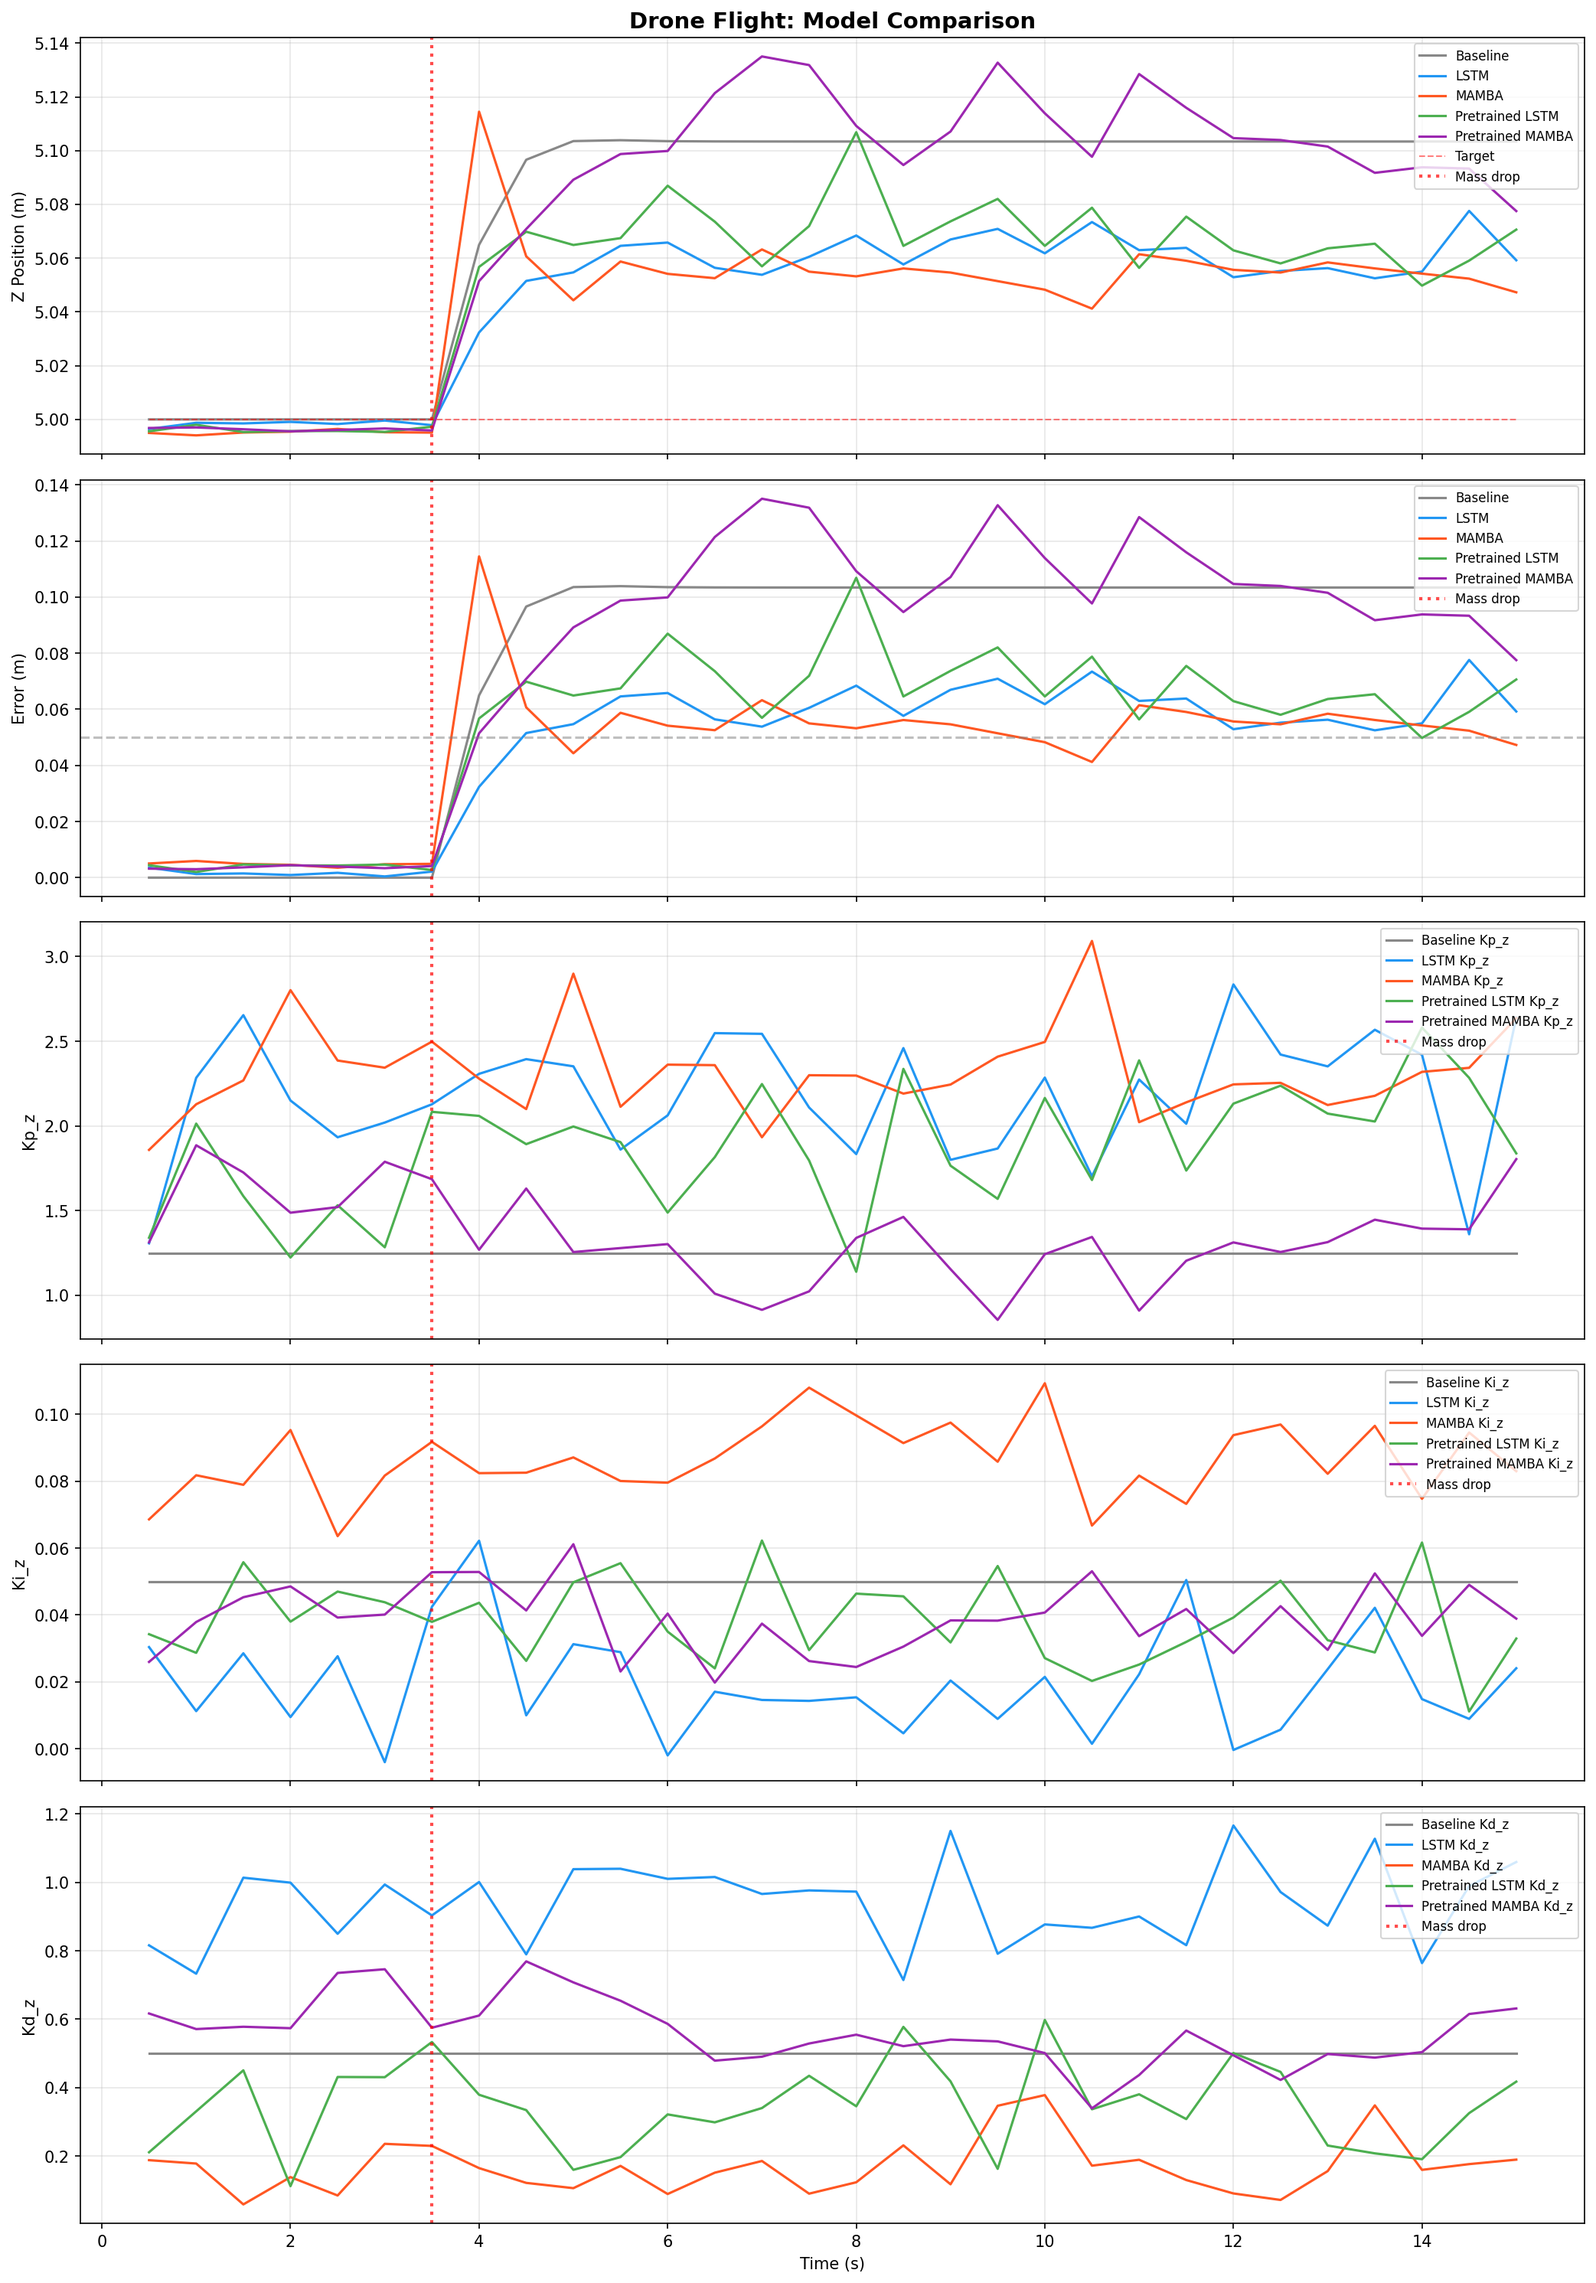
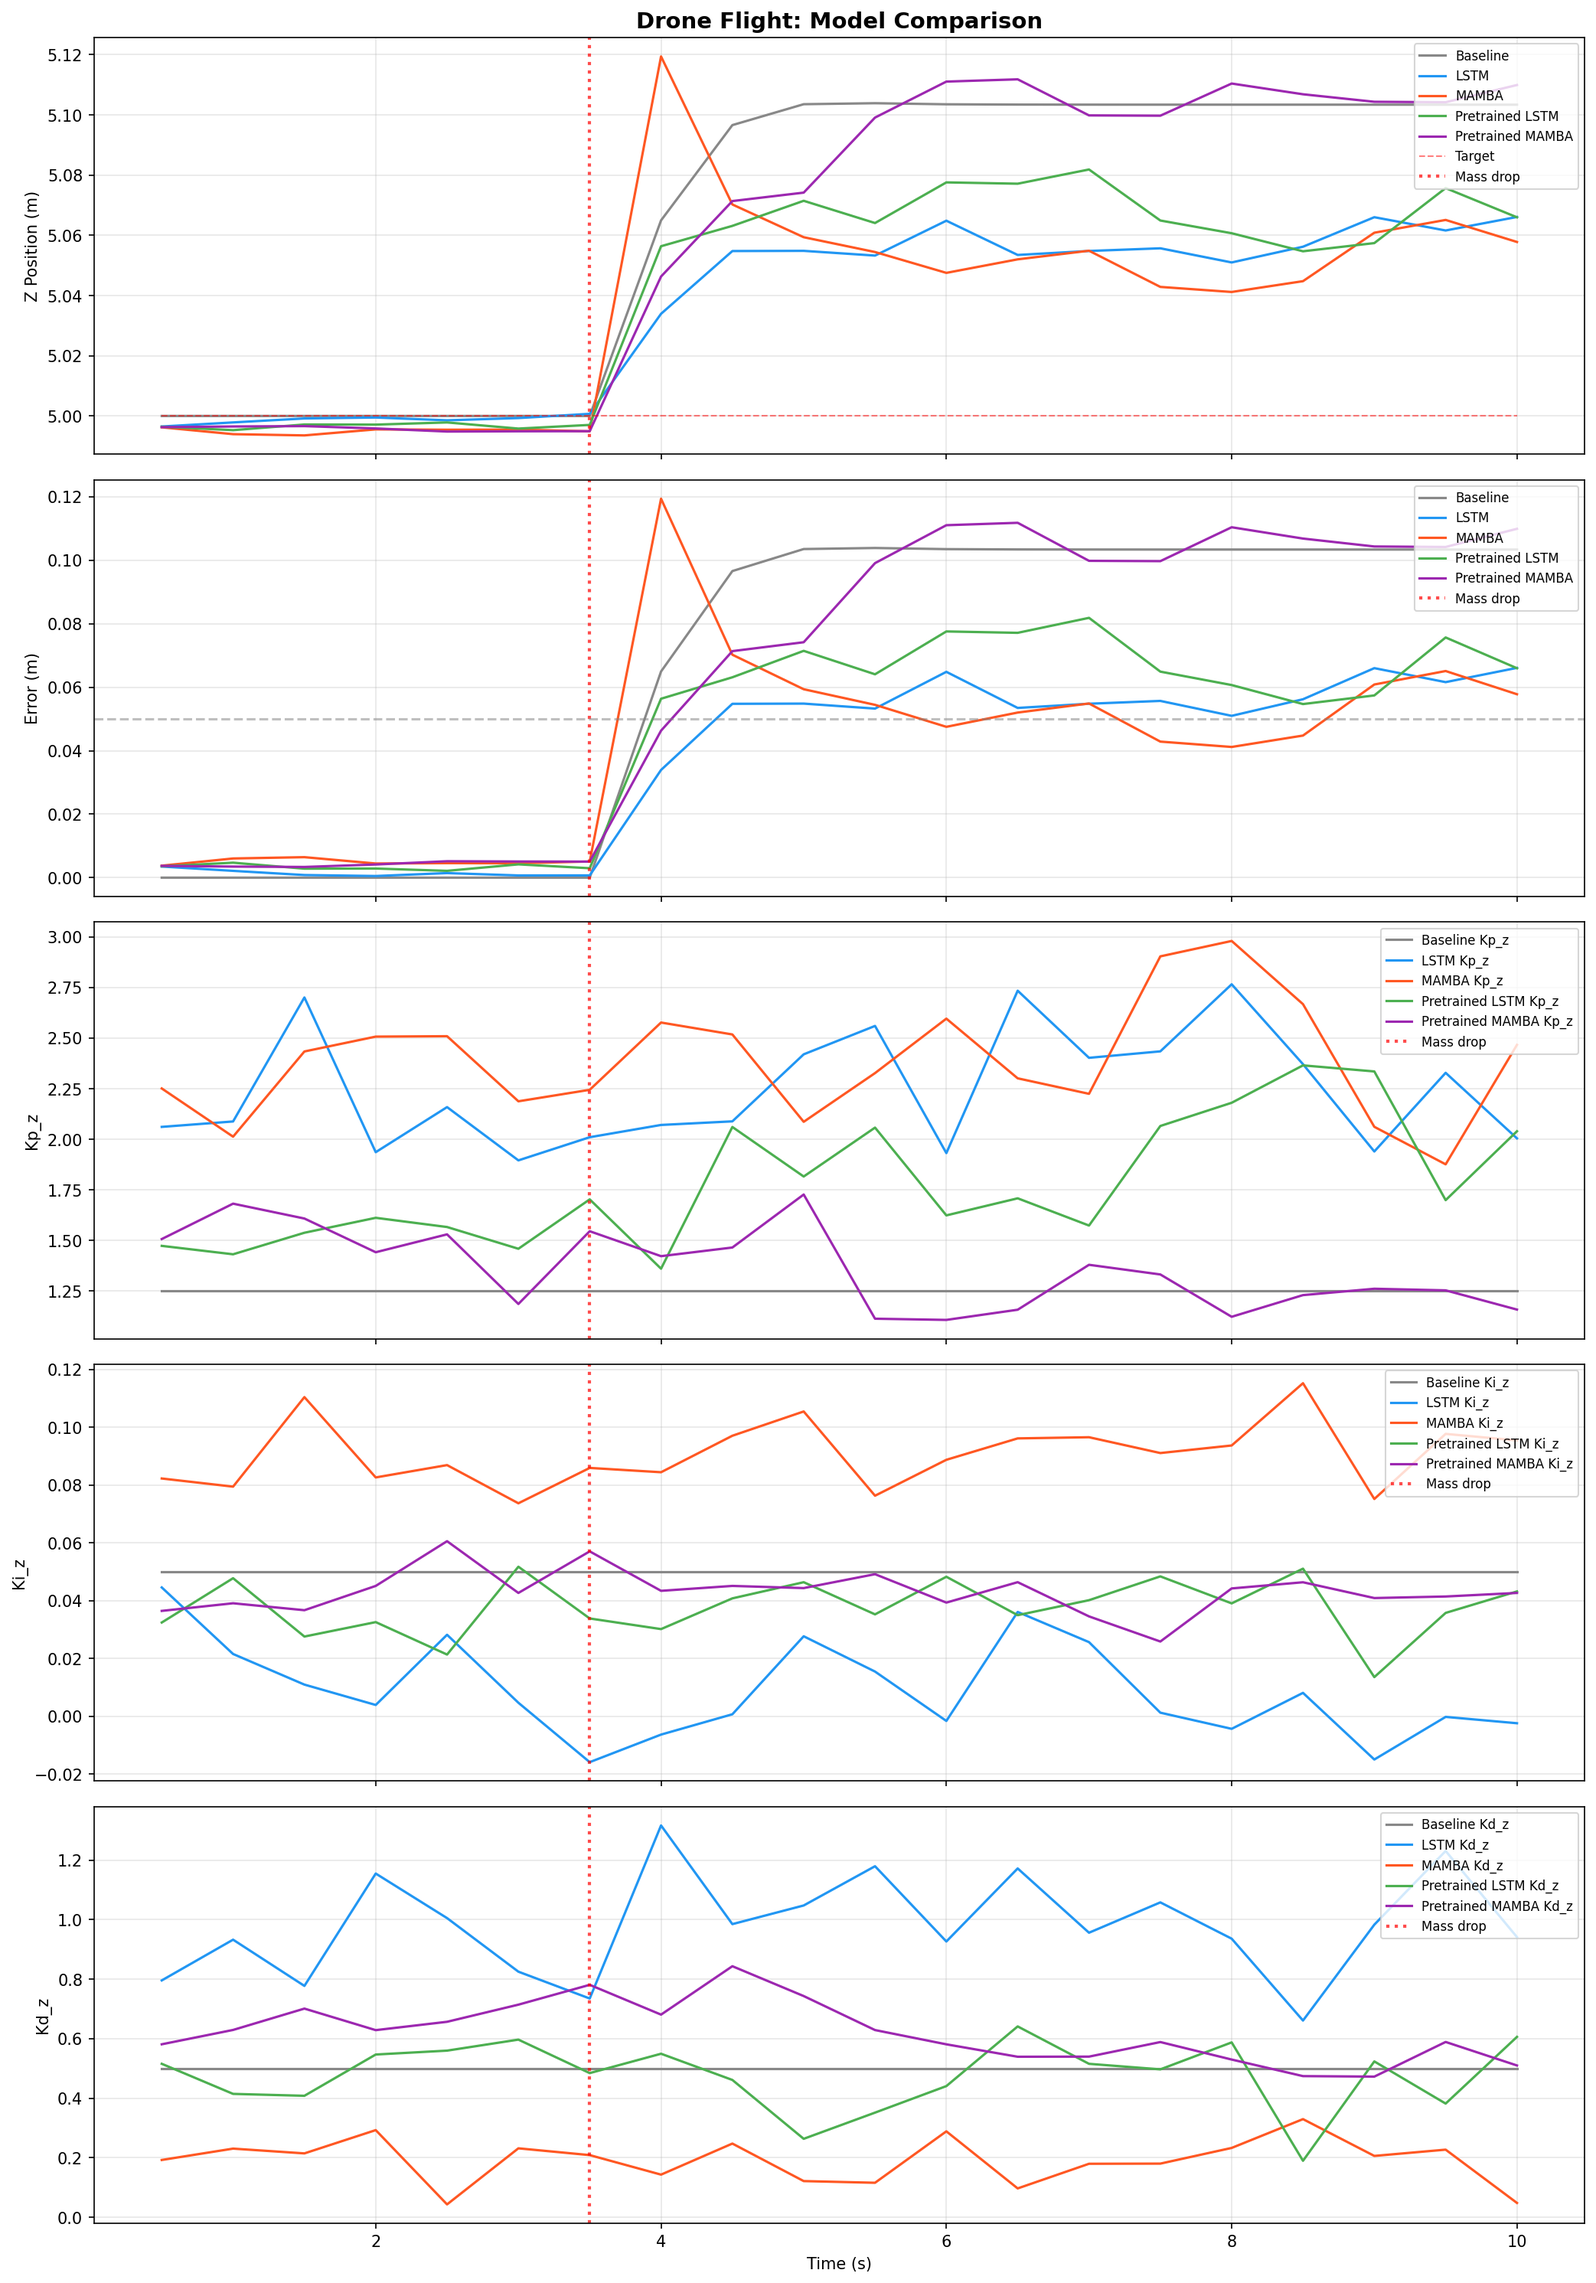
minor changes for submission

diff --git a/train_rl/demo_flight.py b/train_rl/demo_flight.py
@@ -241,7 +241,7 @@ def main():
     cfg = Config()
     cfg.env.hover_height = 5.0  # start at 2m instead of 1m
     cfg.env.mass_delta_range = (0.012, 0.016)  # 44-59% drop
-    cfg.env.episode_len_sec = 15.0             # longer episode to see full recovery
+    cfg.env.episode_len_sec = 10.0             # longer episode to see full recovery
     cfg.env.perturb_time_range = (3.0, 4.0)    # consistent drop time
     env = AdaptivePIDEnv(config=cfg.env)
     obs_dim = env.observation_space.shape[0]
